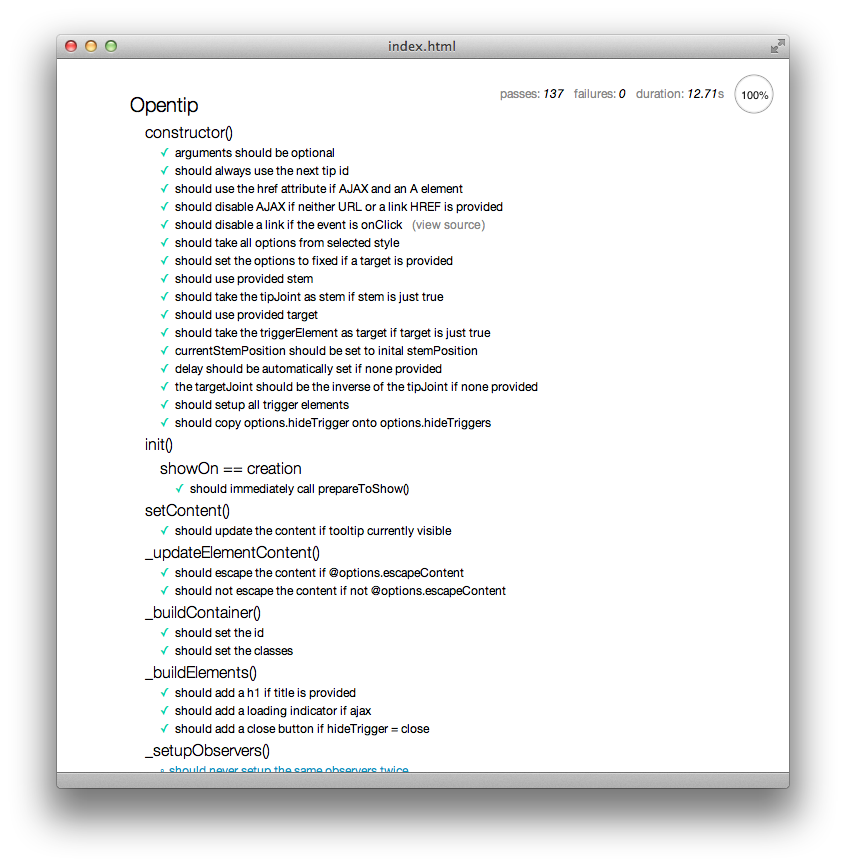
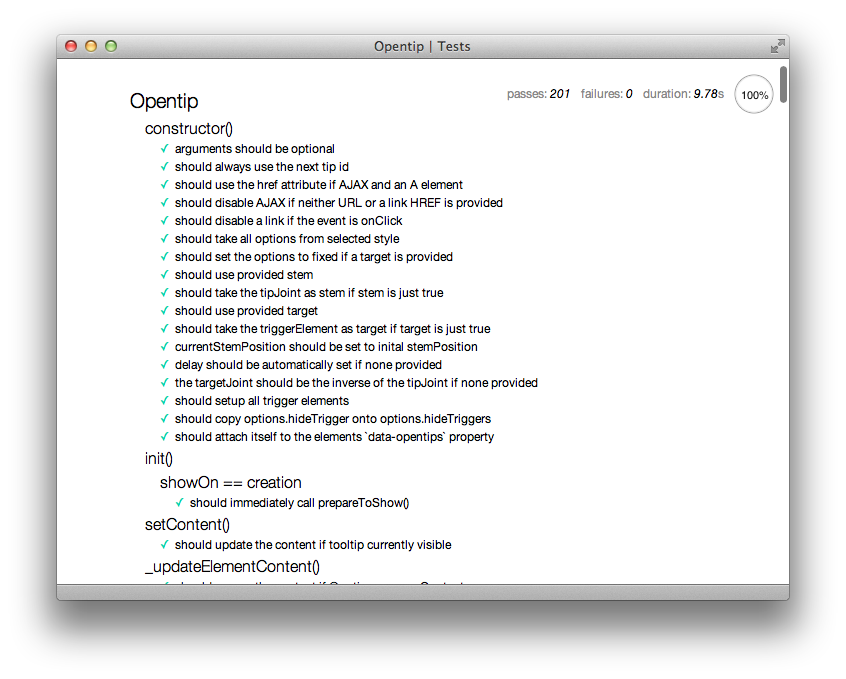
Added a few tests and updated the tests screenshot.

Changed region(s): [[0.0615, 0.0309, 0.9527, 0.9588]]

diff --git a/readme.md b/readme.md
@@ -15,6 +15,7 @@ It supports:
 - Automatic repositioning of the tooltip if it's not in the viewport of the browser anymore
 - All kind of triggers (The tooltip can be triggered by mouse over, click, form submit,... everything you can think of really)
 - CSS3 Animations
+- Well tested, with over 200 unit tests
 
 As of Version 2.0 Opentip does **no longer depend on [Prototype]**. You can choose
 *any* adapter you want so you can work with the framework of your choice.
@@ -34,7 +35,7 @@ Supported frameworks are:
 Installation
 ------------
 
-The easies and recommended way to install *opentip* is with [ender]:
+The easiest and recommended way to install *opentip* is with [ender]:
 
 ```bash
 $ ender build opentip
